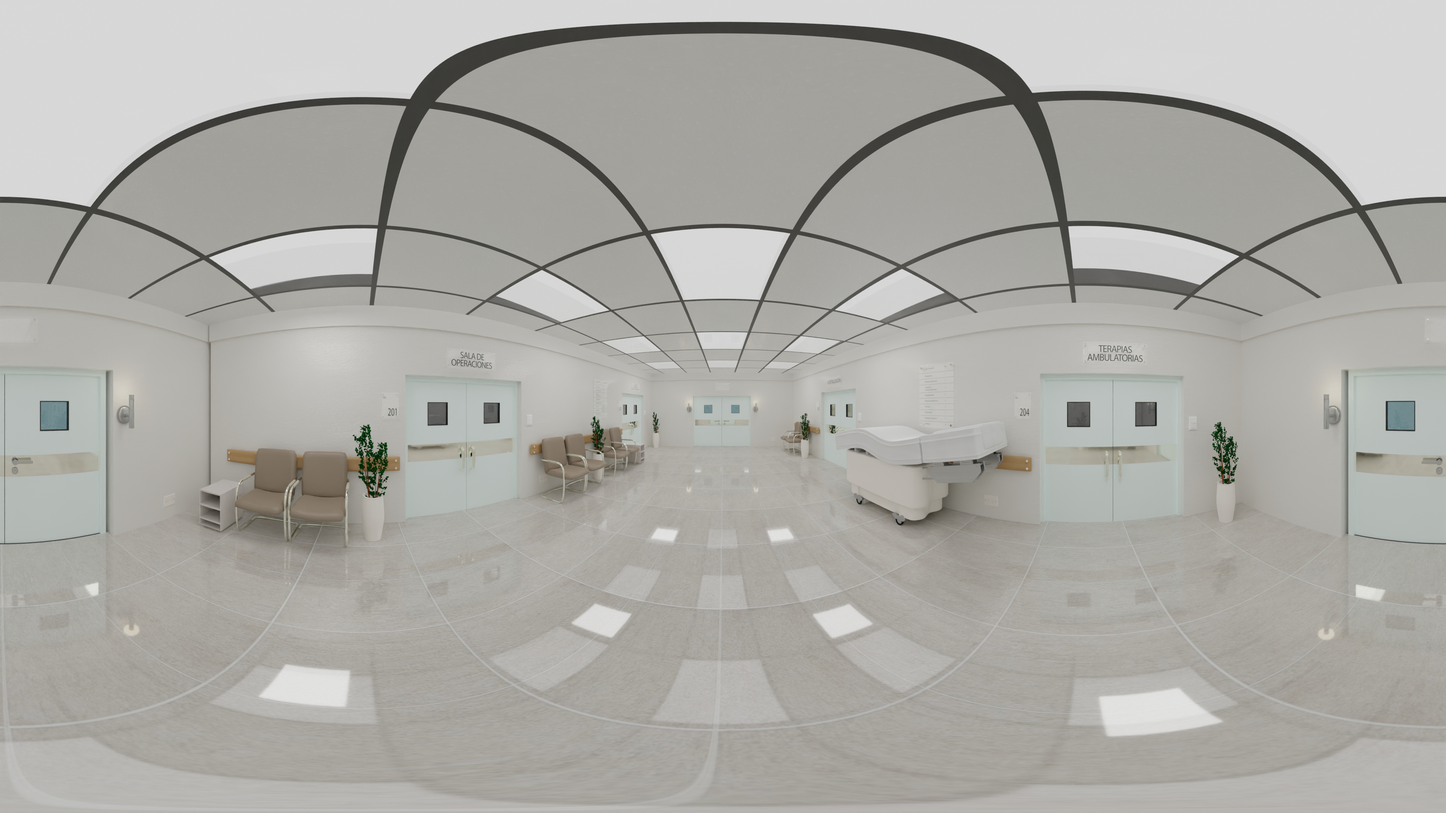
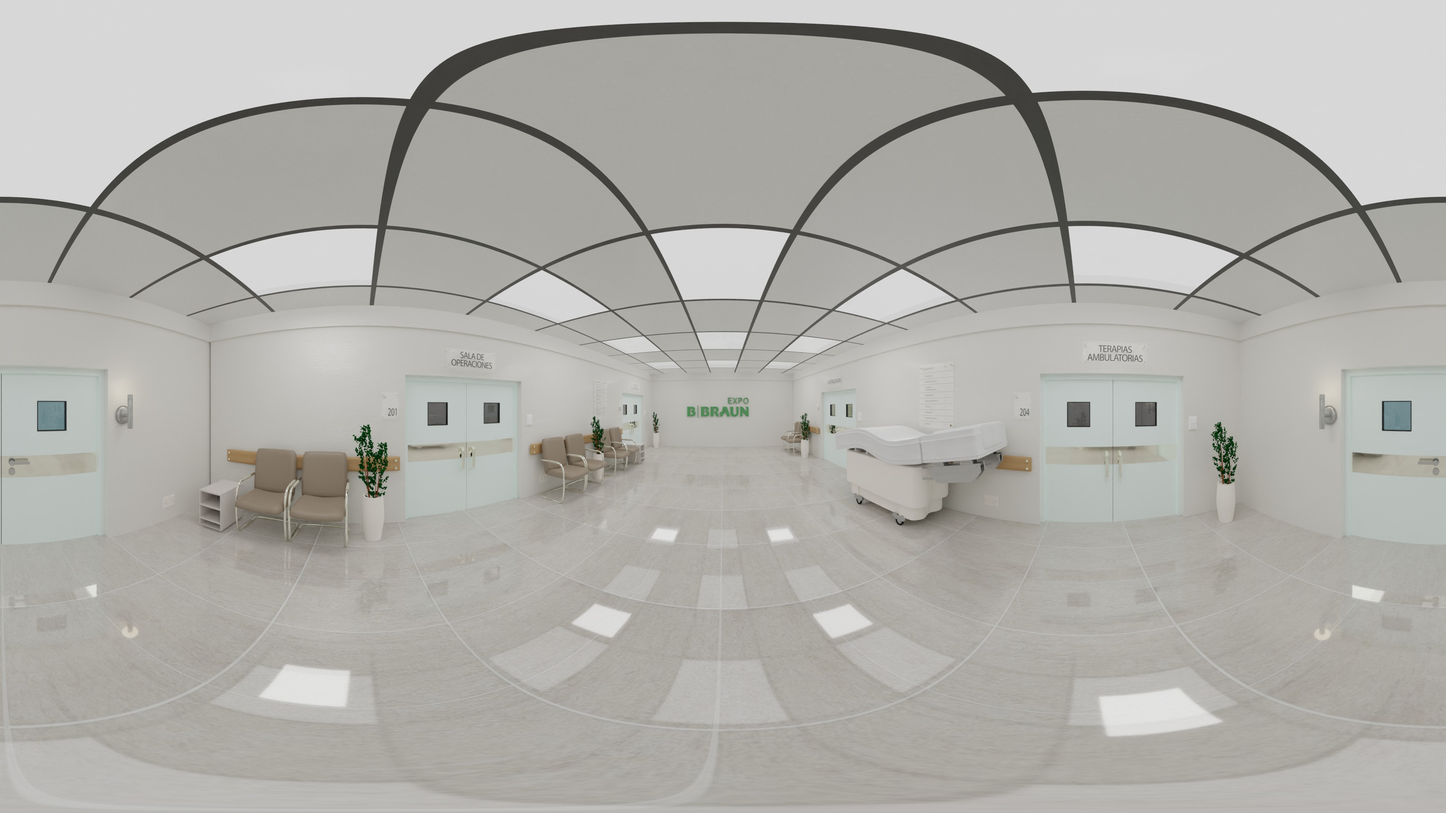
add files

diff --git a/index.html b/index.html
@@ -10,6 +10,9 @@
 </head>
 <body>
 <main>
+    <header id="logo">
+        <img width="180px" src="images/expo-bbraun.svg">
+    </header>
     <div id="panorama" class="background full"></div>
 </main>
 <script>
@@ -18,24 +21,53 @@
             "autoLoad": true,
             "firstScene": "image1",
             "sceneFadeDuration": 1000,
-            "compass" : true
+            "compass" : true,
+            "autoRotate" : -3,
+            "mouseZoom" : false
         },
     
         "scenes": {
             "image1": {
-                "title": "Pasillo",
+                "title": "Pasillo de Exposiciones",
                 "hfov": 100,
                 "pitch": 0,
                 "yaw": 0,
                 "type": "equirectangular",
-                "panorama": "images/camara01.jpg",
+                "panorama": "images/pasillo.jpg",
                 "hotSpots": [
                     {
-                        "pitch": -15,
-                        "yaw": 0,
+                        "pitch": -10,
+                        "yaw": 51,
                         "type": "scene",
-                        "text": "Avanzar a UCI y Hospitalización",
+                        "text": "Ir a Sala de Hospitalización",
                         "sceneId": "image2",
+                        "targetYaw": -23,
+                        "targetPitch": 2
+                    },
+                    {
+                        "pitch": -8,
+                        "yaw": -35,
+                        "type": "scene",
+                        "text": "Ir a Unidad de Cuidados Intensivos",
+                        "sceneId": "image3",
+                        "targetYaw": -23,
+                        "targetPitch": 2
+                    },
+                    {
+                        "pitch": -8,
+                        "yaw": 140,
+                        "type": "scene",
+                        "text": "Ir a Terapias Ambulatorias",
+                        "sceneId": "image4",
+                        "targetYaw": -23,
+                        "targetPitch": 2
+                    },
+                    {
+                        "pitch": -8,
+                        "yaw": -115,
+                        "type": "scene",
+                        "text": "Ir a Sala de Operaciones",
+                        "sceneId": "image5",
                         "targetYaw": -23,
                         "targetPitch": 2
                     }

diff --git a/css/style.css b/css/style.css
@@ -6,6 +6,16 @@ body{
     padding: 0;
     margin: 0;
 }
+#logo{
+    display: flex;
+    align-items: center;
+    position: absolute;
+    z-index: 99;
+    background: #00a990;
+    padding: 5px 10px;
+    top: 0;
+    left: 0;
+}
 main{
     display: flex;
     align-items: center;
@@ -15,4 +25,22 @@ main{
     top: 0;
     left: 0;
     cursor: grab;
+}
+.pnlm-panorama-info{
+    background-color: rgb(0 169 144);
+    bottom: 0;
+    font-family: Arial;
+    text-transform: uppercase;
+}
+.pnlm-title-box{
+    padding-left: 10px;
+    margin-bottom: 0;
+    font-size: 16px;
+}
+.pnlm-controls-container {
+    position: absolute;
+    top: 0;
+    left: auto;
+    z-index: 1;
+    right: 10px;
 }
